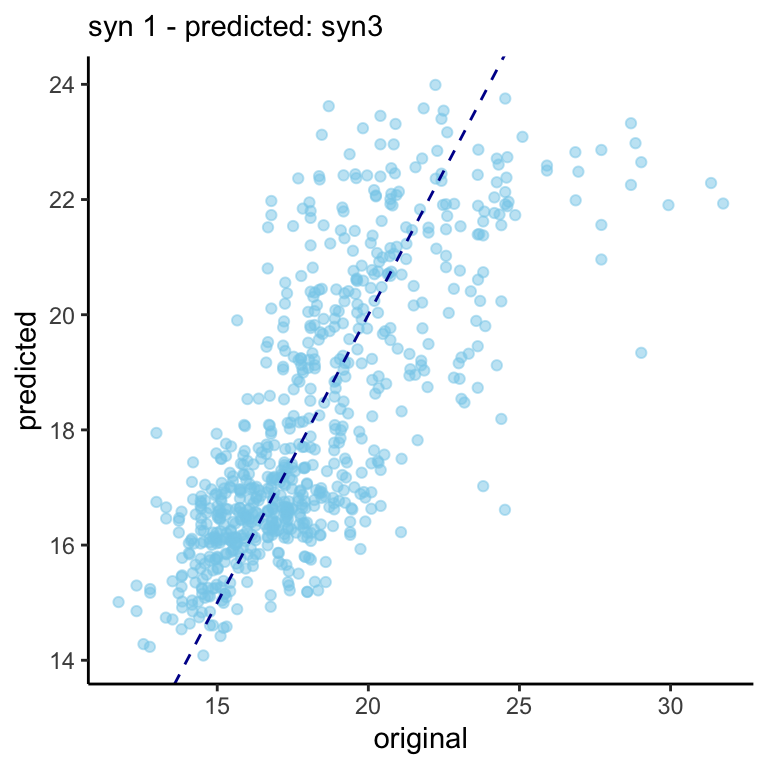
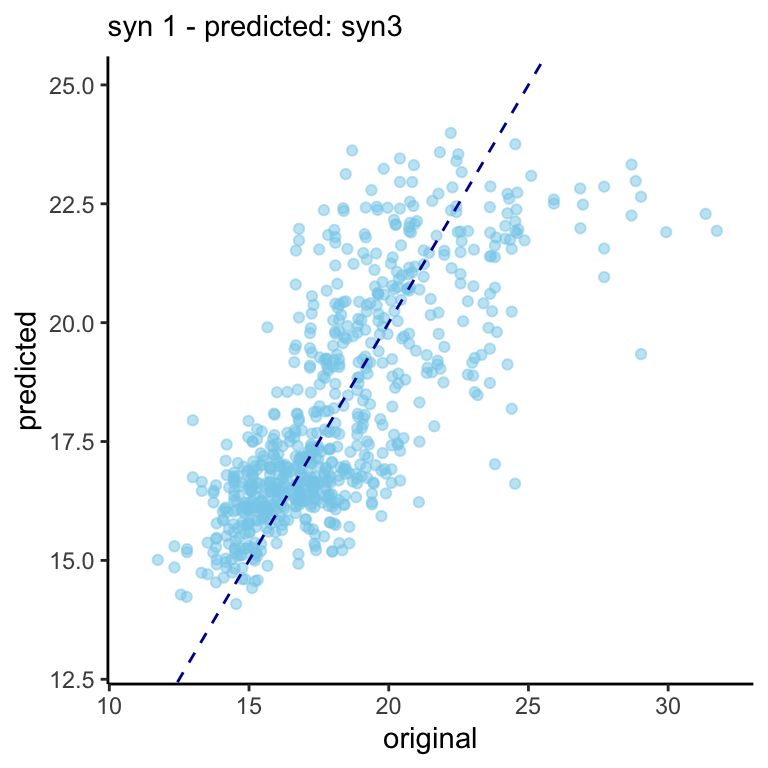
xlim/ylim

diff --git a/Sim_setup.html b/Sim_setup.html
@@ -242,19 +242,32 @@ code span.wa { color: #60a0b0; font-weight: bold; font-style: italic; } /* Warni
 <span id="cb5-17"><a href="#cb5-17" aria-hidden="true" tabindex="-1"></a>  <span class="fu">mutate</span>(<span class="at">original =</span> <span class="fu">rep</span>(bmis, <span class="dv">5</span>)) <span class="sc">%&gt;%</span> </span>
 <span id="cb5-18"><a href="#cb5-18" aria-hidden="true" tabindex="-1"></a>    <span class="fu">set_rownames</span>(<span class="fu">paste</span>(<span class="st">"syn"</span>, <span class="fu">rep</span>(<span class="dv">1</span><span class="sc">:</span><span class="dv">5</span>,<span class="at">each=</span><span class="dv">6</span>), <span class="st">"- predicted:"</span>, <span class="fu">names</span>(.<span class="sc">$</span>predicted))) </span>
 <span id="cb5-19"><a href="#cb5-19" aria-hidden="true" tabindex="-1"></a></span>
-<span id="cb5-20"><a href="#cb5-20" aria-hidden="true" tabindex="-1"></a><span class="co"># plot the predictions against original values of bmi</span></span>
-<span id="cb5-21"><a href="#cb5-21" aria-hidden="true" tabindex="-1"></a>plots1 <span class="ot">&lt;-</span> res <span class="sc">%&gt;%</span> </span>
-<span id="cb5-22"><a href="#cb5-22" aria-hidden="true" tabindex="-1"></a>  <span class="fu">apply</span>(<span class="dv">1</span>, <span class="cf">function</span>(x) <span class="fu">data.frame</span>(<span class="at">predicted =</span> <span class="fu">unlist</span>(x<span class="sc">$</span>predicted), <span class="at">original =</span> <span class="fu">unlist</span>(x<span class="sc">$</span>original))) <span class="sc">%&gt;%</span> </span>
-<span id="cb5-23"><a href="#cb5-23" aria-hidden="true" tabindex="-1"></a>  <span class="fu">imap</span>(<span class="sc">~</span><span class="fu">ggplot</span>(.x, <span class="fu">aes</span>(<span class="at">x =</span> original, <span class="at">y =</span> predicted)) <span class="sc">+</span></span>
-<span id="cb5-24"><a href="#cb5-24" aria-hidden="true" tabindex="-1"></a>        <span class="fu">geom_point</span>(<span class="at">col=</span><span class="st">"skyblue"</span>, <span class="at">alpha =</span><span class="fl">0.5</span>) <span class="sc">+</span></span>
-<span id="cb5-25"><a href="#cb5-25" aria-hidden="true" tabindex="-1"></a>        <span class="fu">geom_abline</span>(<span class="at">intercept =</span> <span class="dv">0</span>, <span class="at">slope =</span> <span class="dv">1</span>, <span class="at">col =</span> <span class="st">"#000099"</span>, <span class="at">lty=</span><span class="dv">2</span>) <span class="sc">+</span> </span>
-<span id="cb5-26"><a href="#cb5-26" aria-hidden="true" tabindex="-1"></a>        <span class="fu">labs</span>(<span class="at">subtitle =</span> .y) <span class="sc">+</span></span>
-<span id="cb5-27"><a href="#cb5-27" aria-hidden="true" tabindex="-1"></a>        <span class="fu">theme_classic</span>()</span>
-<span id="cb5-28"><a href="#cb5-28" aria-hidden="true" tabindex="-1"></a>        )</span>
-<span id="cb5-29"><a href="#cb5-29" aria-hidden="true" tabindex="-1"></a></span>
-<span id="cb5-30"><a href="#cb5-30" aria-hidden="true" tabindex="-1"></a>plots1[stringr<span class="sc">::</span><span class="fu">str_detect</span>(<span class="fu">names</span>(plots1), <span class="st">"syn 1"</span>)]</span>
-<span id="cb5-31"><a href="#cb5-31" aria-hidden="true" tabindex="-1"></a><span class="co"># # combine six random plots </span></span>
-<span id="cb5-32"><a href="#cb5-32" aria-hidden="true" tabindex="-1"></a><span class="co"># ggpubr::ggarrange(plotlist = sample(plots1, 6) , nrow = 2, ncol=3)</span></span></code><button title="Copy to Clipboard" class="code-copy-button"><i class="bi"></i></button></pre></div>
+<span id="cb5-20"><a href="#cb5-20" aria-hidden="true" tabindex="-1"></a><span class="co"># (do I want to specify the x-lim/y-lim on their min/max values?)</span></span>
+<span id="cb5-21"><a href="#cb5-21" aria-hidden="true" tabindex="-1"></a>res <span class="sc">%&gt;%</span> </span>
+<span id="cb5-22"><a href="#cb5-22" aria-hidden="true" tabindex="-1"></a>  tidyr<span class="sc">::</span><span class="fu">unnest</span>(<span class="fu">c</span>(predicted, original)) <span class="sc">%&gt;%</span>  </span>
+<span id="cb5-23"><a href="#cb5-23" aria-hidden="true" tabindex="-1"></a>  <span class="fu">summarize_all</span>(<span class="fu">list</span>(min, max))</span>
+<span id="cb5-24"><a href="#cb5-24" aria-hidden="true" tabindex="-1"></a>  </span>
+<span id="cb5-25"><a href="#cb5-25" aria-hidden="true" tabindex="-1"></a></span>
+<span id="cb5-26"><a href="#cb5-26" aria-hidden="true" tabindex="-1"></a><span class="co"># plot the predictions against original values of bmi</span></span>
+<span id="cb5-27"><a href="#cb5-27" aria-hidden="true" tabindex="-1"></a>plots1 <span class="ot">&lt;-</span> res <span class="sc">%&gt;%</span> </span>
+<span id="cb5-28"><a href="#cb5-28" aria-hidden="true" tabindex="-1"></a>  <span class="fu">apply</span>(<span class="dv">1</span>, <span class="cf">function</span>(x) <span class="fu">data.frame</span>(<span class="at">predicted =</span> <span class="fu">unlist</span>(x<span class="sc">$</span>predicted), <span class="at">original =</span> <span class="fu">unlist</span>(x<span class="sc">$</span>original))) <span class="sc">%&gt;%</span></span>
+<span id="cb5-29"><a href="#cb5-29" aria-hidden="true" tabindex="-1"></a>  <span class="fu">imap</span>(</span>
+<span id="cb5-30"><a href="#cb5-30" aria-hidden="true" tabindex="-1"></a>    <span class="sc">~</span><span class="fu">ggplot</span>(.x, <span class="fu">aes</span>(<span class="at">x =</span> original, <span class="at">y =</span> predicted)) <span class="sc">+</span></span>
+<span id="cb5-31"><a href="#cb5-31" aria-hidden="true" tabindex="-1"></a>      <span class="fu">geom_point</span>(<span class="at">col=</span><span class="st">"skyblue"</span>, <span class="at">alpha =</span><span class="fl">0.5</span>) <span class="sc">+</span></span>
+<span id="cb5-32"><a href="#cb5-32" aria-hidden="true" tabindex="-1"></a>      <span class="fu">geom_abline</span>(<span class="at">intercept =</span> <span class="dv">0</span>, <span class="at">slope =</span> <span class="dv">1</span>, <span class="at">col =</span> <span class="st">"#000099"</span>, <span class="at">lty=</span><span class="dv">2</span>) <span class="sc">+</span> </span>
+<span id="cb5-33"><a href="#cb5-33" aria-hidden="true" tabindex="-1"></a>      <span class="fu">labs</span>(<span class="at">subtitle =</span> .y) <span class="sc">+</span></span>
+<span id="cb5-34"><a href="#cb5-34" aria-hidden="true" tabindex="-1"></a>      <span class="co"># set the y/x-lims?</span></span>
+<span id="cb5-35"><a href="#cb5-35" aria-hidden="true" tabindex="-1"></a>      <span class="co"># ylim(min(.x$predicted), max(.x$predicted)) + </span></span>
+<span id="cb5-36"><a href="#cb5-36" aria-hidden="true" tabindex="-1"></a>      <span class="co"># xlim(min(.x$original), max(.x$original)) +</span></span>
+<span id="cb5-37"><a href="#cb5-37" aria-hidden="true" tabindex="-1"></a>      <span class="fu">ylim</span>(<span class="dv">13</span>, <span class="dv">25</span>) <span class="sc">+</span>  <span class="co"># min(res) &amp; max(res)</span></span>
+<span id="cb5-38"><a href="#cb5-38" aria-hidden="true" tabindex="-1"></a>      <span class="fu">xlim</span>(<span class="dv">11</span>, <span class="dv">32</span>) <span class="sc">+</span></span>
+<span id="cb5-39"><a href="#cb5-39" aria-hidden="true" tabindex="-1"></a>      <span class="fu">theme_classic</span>()</span>
+<span id="cb5-40"><a href="#cb5-40" aria-hidden="true" tabindex="-1"></a>  )</span>
+<span id="cb5-41"><a href="#cb5-41" aria-hidden="true" tabindex="-1"></a></span>
+<span id="cb5-42"><a href="#cb5-42" aria-hidden="true" tabindex="-1"></a></span>
+<span id="cb5-43"><a href="#cb5-43" aria-hidden="true" tabindex="-1"></a>plots1[stringr<span class="sc">::</span><span class="fu">str_detect</span>(<span class="fu">names</span>(plots1), <span class="st">"syn 1"</span>)]</span>
+<span id="cb5-44"><a href="#cb5-44" aria-hidden="true" tabindex="-1"></a><span class="co"># # combine six random plots </span></span>
+<span id="cb5-45"><a href="#cb5-45" aria-hidden="true" tabindex="-1"></a><span class="co"># ggpubr::ggarrange(plotlist = sample(plots1, 6) , nrow = 2, ncol=3)</span></span></code><button title="Copy to Clipboard" class="code-copy-button"><i class="bi"></i></button></pre></div>
 </details>
 <div class="cell quarto-layout-panel">
 <div class="quarto-layout-row quarto-layout-valign-top">
@@ -745,6 +758,43 @@ code span.wa { color: #60a0b0; font-weight: bold; font-style: italic; } /* Warni
 </tr>
 </tbody>
 </table>
+</div>
+</div>
+<div class="cell" data-layout-align="center">
+<div class="sourceCode cell-code" id="cb12"><pre class="sourceCode r code-with-copy"><code class="sourceCode r"><span id="cb12-1"><a href="#cb12-1" aria-hidden="true" tabindex="-1"></a><span class="fu">sessionInfo</span>()</span></code><button title="Copy to Clipboard" class="code-copy-button"><i class="bi"></i></button></pre></div>
+<div class="cell-output cell-output-stdout">
+<pre><code>R version 4.2.2 (2022-10-31)
+Platform: aarch64-apple-darwin20 (64-bit)
+Running under: macOS Ventura 13.0
+
+Matrix products: default
+BLAS:   /Library/Frameworks/R.framework/Versions/4.2-arm64/Resources/lib/libRblas.0.dylib
+LAPACK: /Library/Frameworks/R.framework/Versions/4.2-arm64/Resources/lib/libRlapack.dylib
+
+locale:
+[1] en_US.UTF-8/en_US.UTF-8/en_US.UTF-8/C/en_US.UTF-8/en_US.UTF-8
+
+attached base packages:
+[1] stats     graphics  grDevices utils     datasets  methods   base     
+
+other attached packages:
+[1] rlang_1.0.6    ggplot2_3.4.0  furrr_0.3.1    future_1.31.0  purrr_1.0.1   
+[6] magrittr_2.0.3 ggmice_0.0.1   dplyr_1.1.0    mice_3.15.0   
+
+loaded via a namespace (and not attached):
+ [1] tidyselect_1.2.0  xfun_0.37         listenv_0.9.0     splines_4.2.2    
+ [5] lattice_0.20-45   colorspace_2.1-0  vctrs_0.5.2       generics_0.1.3   
+ [9] htmltools_0.5.4   yaml_2.3.7        mgcv_1.8-41       utf8_1.2.3       
+[13] pillar_1.8.1      glue_1.6.2        withr_2.5.0       lifecycle_1.0.3  
+[17] stringr_1.5.0     munsell_0.5.0     gtable_0.3.1      htmlwidgets_1.6.1
+[21] codetools_0.2-19  evaluate_0.20     labeling_0.4.2    knitr_1.42       
+[25] fastmap_1.1.0     parallel_4.2.2    fansi_1.0.4       broom_1.0.3      
+[29] Rcpp_1.0.10       backports_1.4.1   scales_1.2.1      jsonlite_1.8.4   
+[33] farver_2.1.1      parallelly_1.34.0 digest_0.6.31     stringi_1.7.12   
+[37] grid_4.2.2        cli_3.6.0         tools_4.2.2       tibble_3.1.8     
+[41] tidyr_1.3.0       pkgconfig_2.0.3   Matrix_1.5-3      MASS_7.3-58.2    
+[45] rmarkdown_2.20    rstudioapi_0.14   R6_2.5.1          globals_0.16.2   
+[49] rpart_4.1.19      nlme_3.1-162      nnet_7.3-18       compiler_4.2.2   </code></pre>
 </div>
 </div>
 </section>
